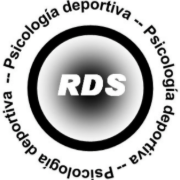
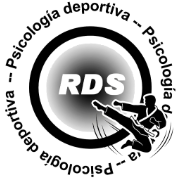
v44: icono real de la app (karateca en silueta) con fondo transparente
Sustituye el placeholder de RDS suelto por el icono definitivo: mismo
logo RDS + silueta de un karateca lanzando una patada en la esquina
inferior derecha (fuente: Icono.jpg, generado con Gemini). Fondo
blanco quitado con flood-fill (icon-192/icon-512 quedan transparentes
de verdad, para que se vea el gris del launcher de Android;
apple-touch-icon se deja con fondo blanco opaco porque iOS no
respeta bien el canal alfa ahi). manifest.json: purpose "any maskable"
-> "any" (con transparencia real, maskable forzaria un recorte/fondo
de Android que no queremos).

Changed region(s): [[0.0, 0.0, 1.0, 1.0], [0.6389, 0.25, 0.75, 0.3611], [0.7222, 0.2222, 0.7778, 0.2778]]

diff --git a/index.html b/index.html
@@ -420,7 +420,7 @@ if('serviceWorker' in navigator){
       </select>
     </div>
   </div>
-    <div class="app-ver">v43</div>
+    <div class="app-ver">v44</div>
     </div>
 
   </main>

diff --git a/sw.js b/sw.js
@@ -1,5 +1,5 @@
 /* RDS Plantilla - Service Worker */
-var CACHE = 'reactionkarate-v43';
+var CACHE = 'reactionkarate-v44';
 var ASSETS = [
   './',
   './index.html',
